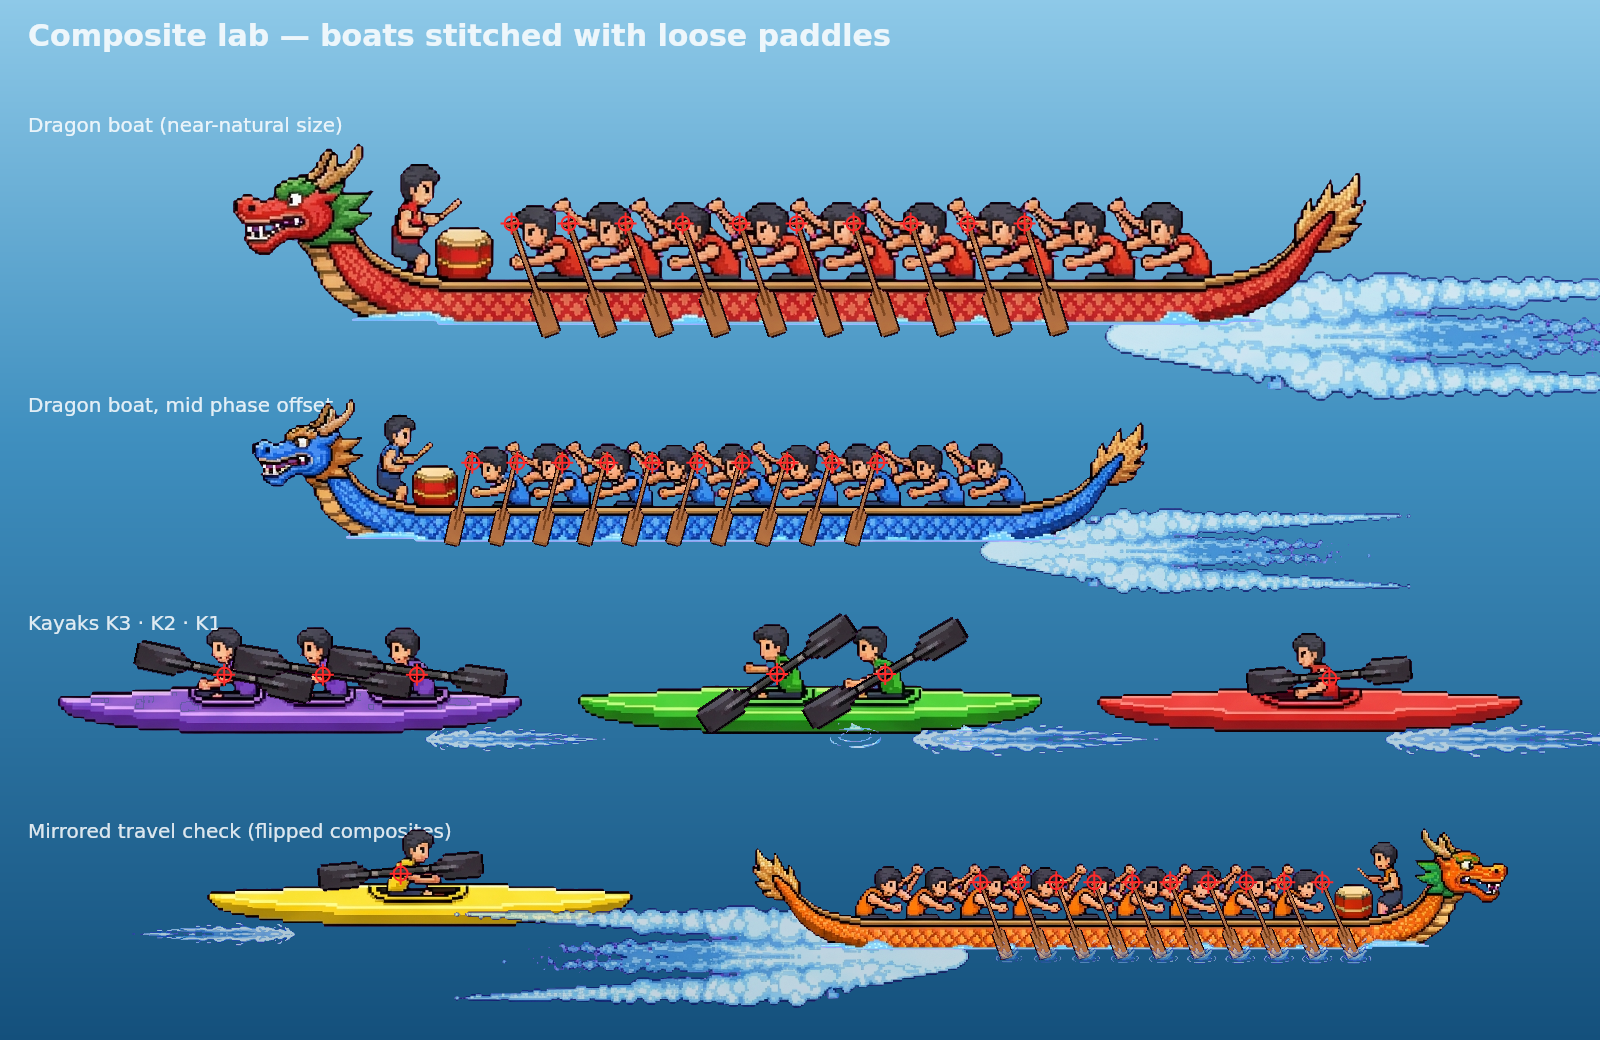
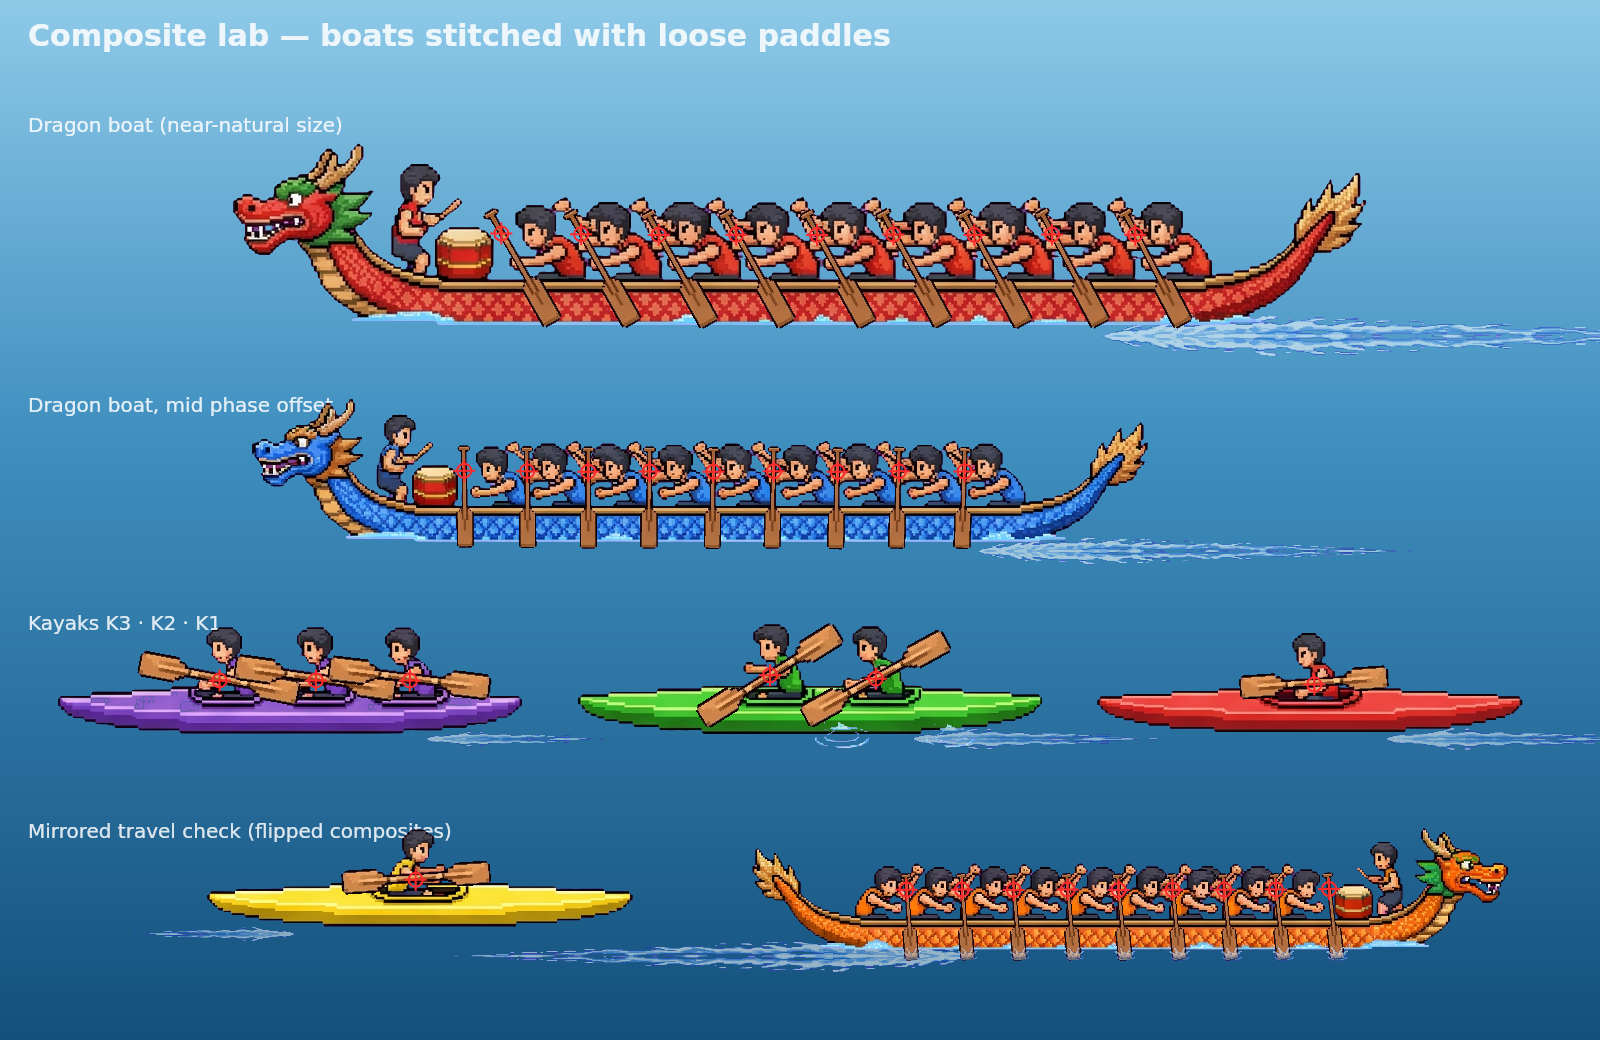
Real 4-phase runner gait; dragon-boat paddles measured to the rowers' hands
Runners (issue 1): the old gait alternated a run pose with a STANDing
pose and peaked the bob at the swap, so heads/torsos never changed and
runners read as single sprites gliding. The sheet contains more
phases: pixel-diffing shows mirrored run-left is a distinct stride for
red/blue/green/yellow, and orange/purple have four distinct phases.
New gait: contact/passing/contact/passing for every kit and both
directions (flip = movingLeft XOR mirror), bob phase-locked to zero at
contact centres so feet plant, amplitude scaled by speed, +/-2.1deg
forward rock. Evidence: qa/gait-strip.png via qa/renderGait.ts.

Dragon boats (issue 2): old anchors guessed 10 stations spacing 0.05
from x=0.233 - station 0 sat in the drum and the spacing drifted so
the last two rowers never got paddles. In reality the art has drummer
+ 9 rowers (heads 0.268-0.817, spacing ~0.069, identical across hull
colours). Fists were pixel-measured (lower y~0.648, raised/top hand y~0.36,
each raised fist belongs to the rower on its right). Stations are now
the midpoint of each rower's two fists with the paddle rotating about
a pivot 22% down the shaft: both hands lie on the shaft at the -28deg
exit keyframe, minimising hand error across the stroke (+4deg catch ->
-28deg, length 0.68 so blades just dip; splash tip pivot-corrected).

Validation: Vitest 27 passing (gait + anchor geometry locked by
tests), lab phase strip and scene zooms inspected. Addendum 0007
[…]

diff --git a/src/objects/character.ts b/src/objects/character.ts
@@ -1,6 +1,10 @@
 /** People: walkers/joggers, cheerers and idlers built from the pose sheet.
- *  Two-frame step illusion = run pose <> side pose (or the two run strides
- *  for orange/purple kits) plus a bob; see CLAUDE §12.4 named loops. */
+ *  Locomotion is a true 4-phase gait cycle (addendum 0007): contact A ->
+ *  passing -> contact B -> passing, using every motion phase the sheet
+ *  contains. For red/blue/green/yellow the two contacts are run-right and
+ *  run-left-mirrored (pixel-distinct strides); orange/purple additionally
+ *  have run-side phases as the passing poses. Bob is phase-locked so feet
+ *  plant at contact centres instead of hovering mid-stride. */
 import { cyclePhase, polylineYAt, wrap } from "../lib/anim";
 import { drawSprite, scaledSize } from "../lib/draw";
 import type { SpriteStore } from "../lib/sprites";
@@ -11,10 +15,52 @@ export const KITS: readonly Kit[] = ["red", "blue", "green", "yellow", "orange",
 
 const RICH_KITS: ReadonlySet<Kit> = new Set(["orange", "purple"]);
 
-function runFrames(kit: Kit): [string, string] {
+/** One gait frame. `mirror` marks art that natively faces LEFT; the frame
+ *  is flipped to face right logically, then flipped again for leftward
+ *  travel (flip = movingLeft XOR mirror). */
+export interface GaitFrame { poseId: string; mirror: boolean }
+
+export function gaitFrames(kit: Kit): readonly GaitFrame[] {
   return RICH_KITS.has(kit)
-    ? [`char-${kit}-run-right-a`, `char-${kit}-run-right-b`]
-    : [`char-${kit}-run-right`, `char-${kit}-side-right`];
+    ? [
+        { poseId: `char-${kit}-run-right-a`, mirror: false },
+        { poseId: `char-${kit}-run-side-right`, mirror: false },
+        { poseId: `char-${kit}-run-right-b`, mirror: false },
+        { poseId: `char-${kit}-run-side-left`, mirror: true },
+      ]
+    : [
+        { poseId: `char-${kit}-run-right`, mirror: false },
+        { poseId: `char-${kit}-side-right`, mirror: false },
+        { poseId: `char-${kit}-run-left`, mirror: true },
+        { poseId: `char-${kit}-side-right`, mirror: false },
+      ];
+}
+
+export interface GaitPose {
+  frameIndex: number;
+  /** Vertical offset in px (negative = up). 0 at contact-frame centres
+   *  (phases .125/.625), max lift at passing centres (.375/.875). */
+  bobPx: number;
+  /** Forward body-rock in degrees (positive = leaning into travel). */
+  leanDeg: number;
+}
+
+export function gaitAt(stepPhase: number, height: number, bobAmpFrac: number): GaitPose {
+  const frameIndex = Math.floor(stepPhase * 4) % 4;
+  const lift = 0.5 - 0.5 * Math.cos((stepPhase - 0.125) * Math.PI * 4);
+  return {
+    frameIndex,
+    bobPx: -lift * bobAmpFrac * height,
+    leanDeg: Math.sin(stepPhase * Math.PI * 4) * 2.1,
+  };
+}
+
+/** Bob amplitude grows with speed: strollers stay grounded, joggers bounce. */
+export function bobAmpForSpeed(speedPxPerSec: number): number {
+  const s = Math.abs(speedPxPerSec);
+  if (s >= 90) return 0.06;
+  if (s >= 55) return 0.045;
+  return 0.03;
 }
 
 function cheerFrames(kit: Kit): [string, string] {
@@ -24,11 +70,26 @@ function cheerFrames(kit: Kit): [string, string] {
 }
 
 function drawPose(ctx: Ctx, store: SpriteStore, poseId: string, x: number, feetY: number,
-                  height: number, flip: boolean): void {
+                  height: number, flip: boolean, rotationDeg = 0): void {
   const sprite = store.get(poseId);
   const size = scaledSize(sprite.entry.width, sprite.entry.height,
     (height * sprite.entry.width) / sprite.entry.height);
-  drawSprite(ctx, sprite.image, { x, y: feetY, w: size.w, h: height, pivotX: 0.5, pivotY: 1, flipX: flip });
+  drawSprite(ctx, sprite.image, {
+    x, y: feetY, w: size.w, h: height, pivotX: 0.5, pivotY: 1, flipX: flip, rotationDeg,
+  });
+}
+
+/** Draw the gait frame for this phase, facing travel direction. The lean
+ *  sign is resolved through the flip so it always rocks into travel. */
+function drawGait(ctx: Ctx, store: SpriteStore, frames: readonly GaitFrame[],
+                  pose: GaitPose, x: number, feetY: number, height: number,
+                  movingLeft: boolean): void {
+  const frame = frames[pose.frameIndex];
+  if (frame === undefined) throw new Error(`gait frame ${pose.frameIndex} out of range`);
+  const flip = movingLeft !== frame.mirror;
+  const worldLean = movingLeft ? -pose.leanDeg : pose.leanDeg;
+  drawPose(ctx, store, frame.poseId, x, feetY + pose.bobPx, height, flip,
+    flip ? -worldLean : worldLean);
 }
 
 export type PathPoint = readonly [x: number, feetY: number];
@@ -46,17 +107,16 @@ export function pathYAt(path: readonly PathPoint[], x: number): number {
 }
 
 export function createWalker(store: SpriteStore, cfg: WalkerConfig): Entity {
-  const [frameA, frameB] = runFrames(cfg.kit);
+  const frames = gaitFrames(cfg.kit);
   const movingLeft = cfg.speedPxPerSec < 0;
+  const bobAmp = bobAmpForSpeed(cfg.speedPxPerSec);
   return {
     layer: cfg.layer,
     draw(ctx, env) {
       const x = wrap(cfg.startX + cfg.speedPxPerSec * env.timeSec, -90, cfg.worldWidth + 90);
       const stepPhase = cyclePhase(env.timeSec, cfg.stridePeriodSec, cfg.phaseOffset);
-      const pose = stepPhase < 0.5 ? frameA : frameB;
-      const bob = -Math.abs(Math.sin(stepPhase * Math.PI)) * cfg.height * 0.045;
       const feetY = cfg.path ? pathYAt(cfg.path, x) : cfg.feetY;
-      drawPose(ctx, store, pose, x, feetY + bob, cfg.height, movingLeft);
+      drawGait(ctx, store, frames, gaitAt(stepPhase, cfg.height, bobAmp), x, feetY, cfg.height, movingLeft);
     },
   };
 }
@@ -114,16 +174,16 @@ export function patrolAt(cfg: Pick<PatrolConfig, "x1" | "x2" | "speedPxPerSec" |
 }
 
 export function createPatrol(store: SpriteStore, cfg: PatrolConfig): Entity {
-  const [frameA, frameB] = runFrames(cfg.kit);
+  const frames = gaitFrames(cfg.kit);
+  const bobAmp = bobAmpForSpeed(cfg.speedPxPerSec);
   return {
     layer: cfg.layer,
     draw(ctx, env) {
       const pose = patrolAt(cfg, env.timeSec);
       const stepPhase = cyclePhase(env.timeSec, cfg.stridePeriodSec, cfg.phaseOffset);
-      const bob = -Math.abs(Math.sin(stepPhase * Math.PI)) * cfg.height * 0.045;
       const facesRight = (cfg.x2 >= cfg.x1) === (pose.direction === 1);
-      drawPose(ctx, store, stepPhase < 0.5 ? frameA : frameB,
-        pose.x, cfg.feetY + bob, cfg.height, !facesRight);
+      drawGait(ctx, store, frames, gaitAt(stepPhase, cfg.height, bobAmp),
+        pose.x, cfg.feetY, cfg.height, !facesRight);
     },
   };
 }

diff --git a/tests/unit/gait-anchors.test.ts b/tests/unit/gait-anchors.test.ts
@@ -1,0 +1,63 @@
+import { readFileSync } from "node:fs";
+import { describe, expect, it } from "vitest";
+import { KITS, bobAmpForSpeed, gaitAt, gaitFrames } from "../../src/objects/character";
+
+describe("4-phase gait (addendum 0007)", () => {
+  it("every kit has 4 gait frames and at least 3 distinct poses", () => {
+    for (const kit of KITS) {
+      const frames = gaitFrames(kit);
+      expect(frames).toHaveLength(4);
+      expect(new Set(frames.map((f) => `${f.poseId}|${f.mirror}`)).size).toBeGreaterThanOrEqual(3);
+    }
+  });
+
+  it("frame index advances through all four phases", () => {
+    const seen = [0, 0.13, 0.3, 0.55, 0.8].map((p) => gaitAt(p, 60, 0.05).frameIndex);
+    expect(seen).toEqual([0, 0, 1, 2, 3]);
+  });
+
+  it("feet plant at contact centres and lift at passing centres", () => {
+    expect(gaitAt(0.125, 60, 0.05).bobPx).toBeCloseTo(0, 5);
+    expect(gaitAt(0.625, 60, 0.05).bobPx).toBeCloseTo(0, 5);
+    expect(gaitAt(0.375, 60, 0.05).bobPx).toBeCloseTo(-3, 5);
+    expect(gaitAt(0.875, 60, 0.05).bobPx).toBeCloseTo(-3, 5);
+  });
+
+  it("bob amplitude grows with speed (strollers grounded, joggers bounce)", () => {
+    expect(bobAmpForSpeed(40)).toBeLessThan(bobAmpForSpeed(120));
+  });
+});
+
+describe("dragon boat anchors (measured crew of 9, addendum 0007)", () => {
+  const anchors = JSON.parse(readFileSync("src/generated/anchors.json", "utf8"));
+  const stations: Array<{ x: number; y: number }> = anchors.dragonBoat.stations;
+
+  it("has exactly one station per painted rower (9), spanning the full crew", () => {
+    expect(stations).toHaveLength(9);
+    expect(stations[0]?.x).toBeGreaterThan(0.22);
+    expect(stations[8]?.x).toBeGreaterThan(0.78); // last rower included
+    for (let i = 1; i < stations.length; i += 1) {
+      expect(stations[i]!.x).toBeGreaterThan(stations[i - 1]!.x);
+      // crew spacing in the art is ~0.069 of boat width
+      expect(stations[i]!.x - stations[i - 1]!.x).toBeGreaterThan(0.055);
+      expect(stations[i]!.x - stations[i - 1]!.x).toBeLessThan(0.085);
+    }
+  });
+
+  it("no station sits on the drum (x 0.19-0.26 at drum height)", () => {
+    for (const s of stations) {
+      const onDrum = s.x > 0.19 && s.x < 0.26 && s.y > 0.45 && s.y < 0.75;
+      // station 0 is rower 1's hands-midpoint, just behind the drum
+      if (onDrum) expect(s.x).toBeGreaterThan(0.235);
+    }
+    expect(stations[0]?.x).toBeCloseTo(0.238, 2);
+  });
+
+  it("paddle rotates between the hands (pivot inside the shaft, stroke sweeps through hands-aligned -28deg)", () => {
+    expect(anchors.dragonBoat.paddlePivot.y).toBeGreaterThan(0.15);
+    expect(anchors.dragonBoat.paddlePivot.y).toBeLessThan(0.3);
+    const angles = anchors.dragonBoat.stroke.keyframes.map((k: { angleDeg: number }) => k.angleDeg);
+    expect(Math.min(...angles)).toBeLessThanOrEqual(-26);
+    expect(Math.max(...angles)).toBeLessThanOrEqual(10);
+  });
+});

diff --git a/qa/renderGait.ts b/qa/renderGait.ts
@@ -1,0 +1,43 @@
+/** Gait strip: every kit sampled at 8 phases of its stride cycle, walking
+ *  right then left, so the 4-phase cycle (addendum 0007) can be inspected. */
+import { KITS, createWalker } from "../src/objects/character";
+import { createCanvas, loadNodeStore, saveCanvas } from "./nodeCanvas";
+
+const store = await loadNodeStore();
+const CELL_W = 170;
+const CELL_H = 150;
+const SAMPLES = 8;
+const canvas = createCanvas(CELL_W * SAMPLES, CELL_H * KITS.length * 2);
+const ctx = canvas.getContext("2d");
+ctx.fillStyle = "#33475b";
+ctx.fillRect(0, 0, canvas.width, canvas.height);
+
+KITS.forEach((kit, row) => {
+  for (const dir of [1, -1] as const) {
+    const y = (row * 2 + (dir === 1 ? 0 : 1)) * CELL_H;
+    const walker = createWalker(store, {
+      kit, feetY: CELL_H - 24, height: 96, startX: CELL_W / 2,
+      speedPxPerSec: 1 * dir, stridePeriodSec: 0.48, worldWidth: 100000,
+      layer: 1, phaseOffset: 0,
+    });
+    for (let i = 0; i < SAMPLES; i += 1) {
+      const x0 = i * CELL_W;
+      ctx.fillStyle = i % 2 ? "#3b5269" : "#33475b";
+      ctx.fillRect(x0, y, CELL_W, CELL_H);
+      ctx.strokeStyle = "#ffd54a";
+      ctx.beginPath();
+      ctx.moveTo(x0, y + CELL_H - 24);
+      ctx.lineTo(x0 + CELL_W, y + CELL_H - 24);
+      ctx.stroke();
+      ctx.save();
+      ctx.translate(x0, y);
+      walker.draw(ctx as never, { timeSec: (i / SAMPLES) * 0.48, showAnchors: false });
+      ctx.restore();
+      ctx.fillStyle = "#ffffff";
+      ctx.font = "13px system-ui, sans-serif";
+      ctx.fillText(`${kit} ${dir === 1 ? "→" : "←"} φ${(i / SAMPLES).toFixed(2)}`, x0 + 6, y + 16);
+    }
+  }
+});
+await saveCanvas(canvas, "qa/gait-strip.png");
+console.log("wrote qa/gait-strip.png");

diff --git a/tests/unit/anim.test.ts b/tests/unit/anim.test.ts
@@ -23,15 +23,15 @@ describe("strokePoseAt with the real dragon-boat anchors", () => {
   it("starts at the catch keyframe", () => {
     const first = keyframes[0]!;
     expect(strokePoseAt(keyframes, 0)).toEqual({ angleDeg: first.angleDeg, lift: first.lift });
-    expect(first.angleDeg).toBeGreaterThan(15); // catch reaches toward the bow
+    expect(first.angleDeg).toBeGreaterThan(0); // catch: blade toward the bow (addendum 0007 hands geometry caps this)
   });
   it("lifts the blade during recovery", () => {
-    expect(strokePoseAt(keyframes, 0.72).lift).toBeGreaterThan(0.1);
+    expect(strokePoseAt(keyframes, 0.72).lift).toBeGreaterThan(0.07);
   });
   it("interpolates between keyframes", () => {
     const mid = strokePoseAt(keyframes, 0.19);
     expect(mid.angleDeg).toBeLessThan(keyframes[0]!.angleDeg);
-    expect(mid.angleDeg).toBeGreaterThan(-4);
+    expect(mid.angleDeg).toBeGreaterThan(-12);
   });
 });
 

diff --git a/src/objects/dragonBoat.ts b/src/objects/dragonBoat.ts
@@ -119,7 +119,7 @@ function drawSplashes(ctx: Ctx, store: SpriteStore, anchors: DragonBoatAnchors,
     const local = stationPhase(anchors, frame.phase, i);
     if (local > 0.14) return; // splash only as the blade bites (catch)
     const pose = strokePoseAt(anchors.stroke.keyframes, local);
-    const tip = bladeTip(pose.angleDeg, length);
+    const tip = bladeTip(pose.angleDeg, length * (1 - anchors.paddlePivot.y));
     const strength = 1 - local / 0.14;
     const w = size.h * 0.3 * (0.6 + 0.4 * strength);
     drawSprite(ctx, splash.image, {

diff --git a/docs/addenda/0007-gait-and-dragon-boat-hands.md b/docs/addenda/0007-gait-and-dragon-boat-hands.md
@@ -1,0 +1,51 @@
+# Addendum 0007 — Runner gait cycle and dragon-boat hand/paddle stitching
+
+- **Date:** 2026-10-17 · **Relates to:** addenda 0003 (anchors), 0005/0006, spec §6
+- **User report:** (1) some runners were a single sprite "floating" through
+  space with no motion-phase variation; (2) on the long boats an oar appeared
+  attached to the drum, the last two rowers had no oars, and paddle
+  pivots/hands were wrong.
+
+## Runners: diagnosis and fix
+- Old gait alternated `run-right` with `side-right` — a run pose vs a
+  *standing* pose. Head/torso identical across frames, bob peaked exactly at
+  the frame swap: at scene scale it reads as one sprite gliding.
+- The sheet actually carries more phases. Pixel-diffing proved
+  `run-left` mirrored is a *distinct stride* (alpha-mask difference vs
+  `run-right`: 983–1558 px for red/blue/green, 11028 px for yellow), and
+  orange/purple carry four distinct phases (`run-right-a/b`,
+  `run-side-right`, `run-side-left` mirrored; diffs 4–9k px).
+- New gait (`src/objects/character.ts`): 4-phase cycle
+  contact → passing → contact → passing for every kit, mirrored frames
+  resolved by `flip = movingLeft XOR mirror`. Bob is phase-locked
+  (`0.5 - 0.5·cos(4π(φ-0.125))`): zero at contact centres (feet plant),
+  max at passing centres. Amplitude scales with speed (0.03/0.045/0.06 of
+  height) and a ±2.1° forward rock keeps the torso alive. Evidence:
+  `qa/gait-strip.png` (`npm run qa:gait`), all kits × both directions.
+
+## Dragon boats: measured crew geometry
+- Old anchors: 10 stations from x=0.233 stepping 0.05 to 0.683 — a guessed
+  uniform spacing. Pixel measurement of the sprites (skin-cluster detection
+  over the red boat; green/purple agree within ±0.003): the crew is a
+  drummer + **9 rowers**, heads at x = 0.268…0.817, spacing ~0.069.
+  Station 0 (0.233) sat inside the drum (x 0.195–0.255); drift left of
+  rowers 8–9 meant they never got paddles. Exactly as reported.
+- Hands measured: lower/extended fists at y≈0.648, x = 0.252, 0.322, 0.390,
+  0.460, 0.528, 0.597, 0.666, 0.737, 0.806. Raised (top-hand) fists at
+  y≈0.36, x = 0.294…0.781 — 8 detected; zoom inspection shows each belongs
+  to the rower on its right (forearm slopes down-right behind that head),
+  and rower 1's raised arm is not painted (predicted at 0.224 from the
+  constant −0.028 offset to his lower fist).
+- The two fists define a shaft angle of −30° from vertical; a swinging
+  paddle cannot stay through both painted hands. Minimax stitch: each
+  station is the **midpoint of the rower's two fists** and the paddle
+  rotates about a pivot 22% down its length there. Hands lie exactly on the
+  shaft at the −28° exit keyframe; worst-case hand-to-shaft error at catch
+  is ~19 sprite px (≤12 px at the largest scene scale).
+- New anchors: 9 stations (0.238…0.794, y≈0.50), length 0.68 boat heights
+  (blade just dips), stroke +4° → −28° with recovery lift. Splash tip now
+  accounts for the pivot being partway down the paddle.
+- Evidence: `qa/measure-dragon*.png` (grid + old stations overlaid),
+  `qa/lab-phase-strip*.png` (4 stroke phases), `qa/zoom-dragon-near.png`.
+- Validation: Vitest 27 passing, incl. suites locking the 9-station span/
+  spacing, no-drum-station, gait frame/bob invariants.

diff --git a/CLAUDE.md b/CLAUDE.md
@@ -541,6 +541,10 @@ plus the contextualisation header.
   values, re-render. Record each tuning decision in an addendum (§1).
 - Coordinates in anchors are *fractions of the base sprite* (0–1), never pixels,
   so composites survive re-extraction and scene scaling.
+- Anchor *positions must be measured from the art* (grid overlays / pixel
+  detection of hands, seats, joints), never interpolated between guessed
+  endpoints — uniform-spacing guesses are what put a paddle on the dragon
+  boat's drum and left its last two rowers empty-handed (addendum 0007).
 
 ### 12.4 Deterministic animation
 - The scene clock is injectable and the RNG is seeded: a given `(seed, t)`
@@ -549,3 +553,7 @@ plus the contextualisation header.
   the scene context (Separate Query from Modifier, §7).
 - Animation loops are named, typed data (stroke cycles, walk cycles, cloud
   drift) in the object modules — not magic numbers inside render code.
+- Locomotion uses *every motion phase present in the sheet* as a proper
+  multi-frame cycle (contact/passing/contact/passing) with the vertical bob
+  phase-locked so feet plant at contact. Alternating a run pose with a
+  standing pose reads as a single sprite gliding (addendum 0007).

diff --git a/docs/spec.md b/docs/spec.md
@@ -84,8 +84,8 @@ backdrop's 2752×1536 world, letterboxed to the viewport with
 Seeded RNG + injectable clock (`?seed=`, `?t=` for QA stills). Named loops:
 
 - `strokeCycle` (dragon boat, ~0.9–1.3 s varied per boat), `kayakStroke`
-  (~1.1 s, phase-offset per seat), `walkCycle` / `runCycle` (2-frame leg swap +
-  bob), `cheerCycle` (arms pose swap + hop), `cloudDrift` (constant velocity,
+  (~1.1 s, phase-offset per seat), `gaitCycle` (4-phase: contact/passing/contact/passing from every
+  motion pose in the sheet, phase-locked bob + lean; addendum 0007), `cheerCycle` (arms pose swap + hop), `cloudDrift` (constant velocity,
   wrap), `wakePulse`, `splashCycle`, `ripplePulse`, `flagSway`, `bob`
   (hull bob/roll synced to stroke).
 
